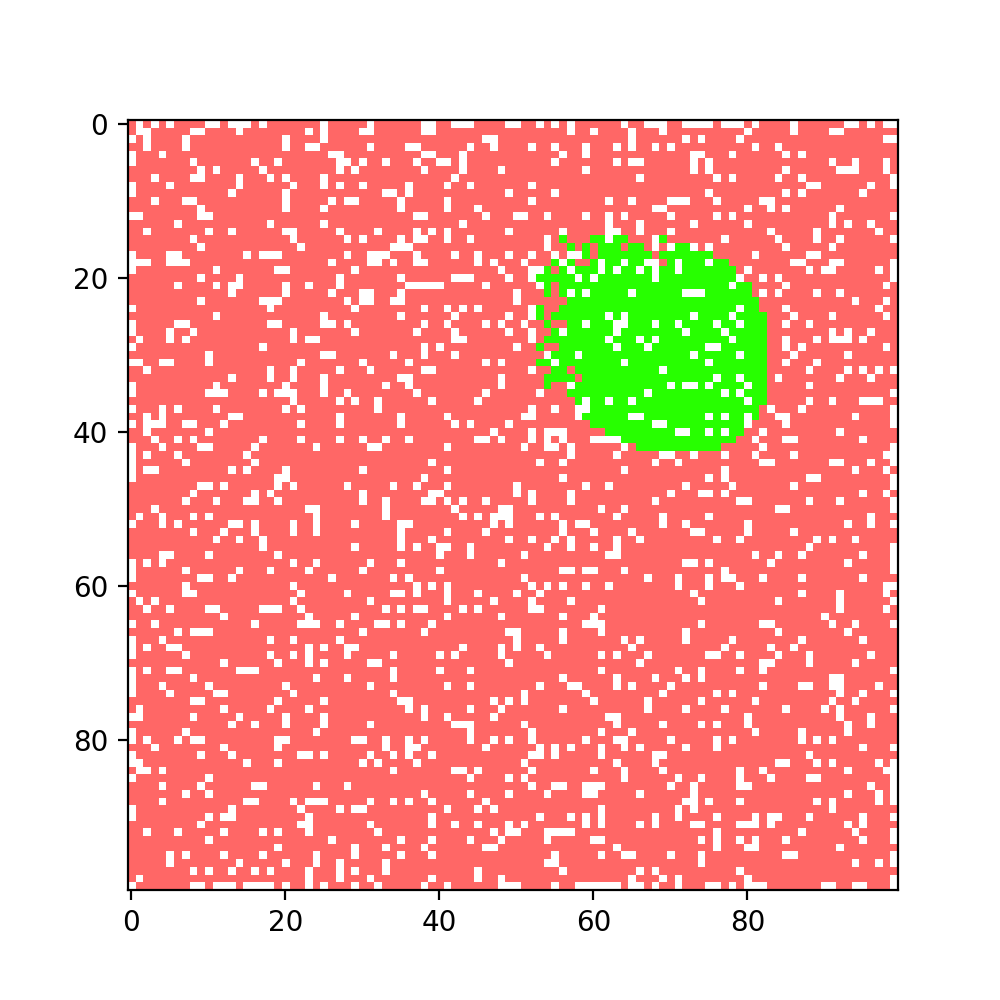
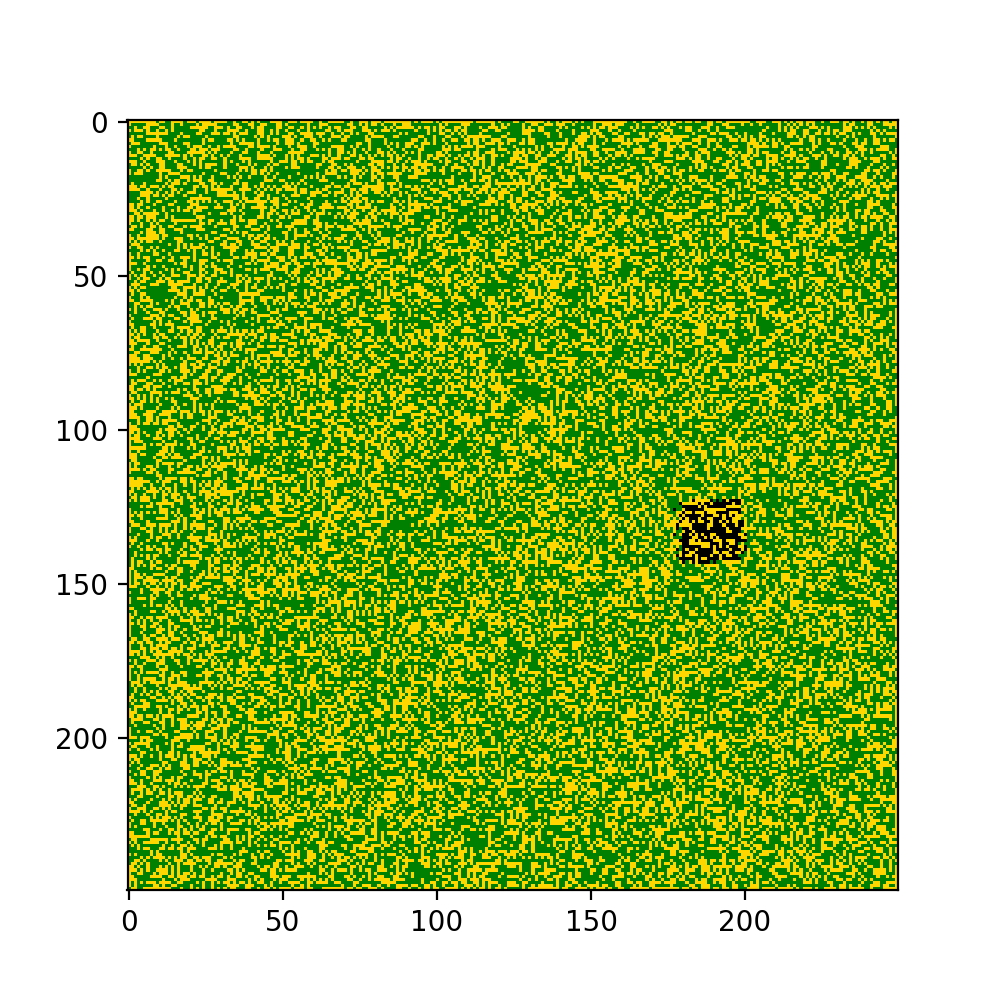
backup before fixing the m value stuff

diff --git a/prediction_script.py b/prediction_script.py
@@ -19,12 +19,21 @@ if False:
 delta = 10**-4
 d = 4
 k = 1
-eps = 0.25
-a_high = 0.013
-a_low  = 0.010
-map_size = 100
+eps = 0.19
+# For speed = 0.1
+a_high = 0.009
+a_low  = 0.001
+# For speed = 0.01
+a_high = 0.002096
+a_low = 0.000505
+
+# Estimated to need 52342 samples
+# Discarded 51960 samples.
+# Model reduced to using 382 samples.
+
+map_size = 250
 my_car = Car(map_size, save_change = False)
-my_car.stay_marked = True
+my_car.stay_marked = False
 
 full_run = True
 if full_run:
@@ -54,9 +63,9 @@ for i in range(sample_count):
         sample_array_min[round(model.x[i][0]), round(model.x[i][1])] = max(sample_array_min[round(model.x[i][0]), round(model.x[i][1])], 1 + int(model.f[i]))
 
 # Colours for potting
-two_colour = [0.156, 1,0,1]  
-one_colour = [1,0.01,0,0.6] 
-zero_colour = [1 ,1 , 1 ,1]  
+two_colour = my_car.car_colour  
+one_colour = my_car.ground_colour 
+zero_colour = "gold" 
 CM = mpl.colors.ListedColormap([zero_colour,one_colour,two_colour])
 plt.imshow(sample_array, cmap=CM, interpolation='none')
 plt.show(block=False)
@@ -75,9 +84,15 @@ elif status == OptimizationStatus.NO_SOLUTION_FOUND:
     print('no feasible solution found, lower bound is: {} '.format(model.objective_bound))
     plt.show(block=True)
 
+
+car_postion_m = my_car.car_position
+travel_dir_m = my_car.travel_dir
+
 fig4 = plt.figure(figsize=(5,5))
 my_car.reset_map()
 my_car.stay_marked = False # only show current position of target
+
+my_car.next_step() # t = m+1
 my_car.im = plt.imshow(my_car.map, cmap=my_car.CM, interpolation='none')
 y_min = min(abs(model.b[0].x), abs(model.b[2].x))
 x_min = min(abs(model.b[1].x), abs(model.b[3].x))
@@ -85,11 +100,22 @@ plt.gca().add_patch(Rectangle((x_min,y_min),model.width[1],model.width[0],
                     edgecolor='blue',
                     facecolor='none',
                     lw=1))
-car_postion_m = my_car.car_position
-travel_dir_m = my_car.travel_dir
+
+fig5 = plt.figure(figsize=(5,5))
+my_car.reset_map()
+my_car.stay_marked = False # only show current position of target
+
+my_car.next_step()
+my_car.im = plt.imshow(my_car.map, cmap=my_car.CM, interpolation='none')
+y_min = min(abs(model.b[0].x), abs(model.b[2].x))
+x_min = min(abs(model.b[1].x), abs(model.b[3].x))
+plt.gca().add_patch(Rectangle((x_min,y_min),model.width[1],model.width[0],
+                    edgecolor='blue',
+                    facecolor='none',
+                    lw=1))
 
 frame_count = 200
-anim = animation.FuncAnimation(fig4, my_car.updatefig, frames=frame_count, interval = 1)
+anim = animation.FuncAnimation(fig5, my_car.updatefig, frames=frame_count, interval = 1)
 anim.save('animation.mp4', fps=30, writer="ffmpeg", codec="libx264")
 plt.axis('off')
 

diff --git a/car.py b/car.py
@@ -6,13 +6,13 @@ from mip import Model, minimize, xsum, BINARY, CONTINUOUS
 import copy as cp
 class Car:
     # Parameters for propagation
-    travel_vel = 0.1
+    travel_vel = 0.01
     travel_dir = 0
 
 
     # Colours for potting
-    car_colour = [0.156,0.59,0,1]     # map == 1
-    ground_colour = [0.29,0.01,0,0.6]   # map == 0
+    car_colour = "k"    # map == 1
+    ground_colour = "green"   # map == 0
     CM = mpl.colors.ListedColormap([ground_colour,car_colour])
     save_change = False # save copies of the map change
 
@@ -130,7 +130,7 @@ class Car:
         b = {j: model.add_var(var_type=CONTINUOUS, lb = -M, ub = M, name="b_%d" % j) for j in range(Nf)}
         z = {(i,j): model.add_var(var_type=BINARY, name="z_%d,%d" % (i, j)) for i in range(m) for j in range(Nf)}
         s = {(i,j): model.add_var(var_type=CONTINUOUS, lb = 0, ub = M, name="s_%d,%d" % (i, j)) for i in range(m) for j in range(Nf)}
-        
+
         discarded = np.zeros_like(f)
         for i in range(m):
             if f[i]: # constraints for i in I1
@@ -151,7 +151,7 @@ class Car:
             model.add_constr(-b[j] - b[j + Nf_hf] == width[j])
             model.add_constr(width[j] >= 0)
         
-        model.objective = minimize(xsum(v[i] for i in range(m)) + 0.01 * xsum(width[j] for j in range(Nf_hf)))
+        model.objective = minimize(xsum(v[i] for i in range(m)) + 0.1 * xsum(width[j] for j in range(Nf_hf)))
 
         print("Discarded %d samples." % sum(discarded))
         model.x = x

diff --git a/estimated_expected_value.py b/estimated_expected_value.py
@@ -15,10 +15,10 @@ import time
 delta = 10**-4
 d = 4
 k = 1
-eps = 0.25
-a_high = 0.013
-a_low  = 0.010
-map_size = 100
+eps = 0.19
+a_high =  0.001336
+a_low  = 0.000529
+map_size = 250
 stay_marked = False
 
 alpha = np.outer(np.linspace(0.001, 1-0.001, 100), np.ones(100))
@@ -32,12 +32,12 @@ print("Starting with %d samples" % sample_count)
 print("minimum alpha: %f" % alpha[ind])
 print("minimum delta_ratio: %f" % delta_ratio[ind])
 
-rounds = 1000
+rounds = 100
 global_a_high = 0
 global_a_low = 1
 global_mu = np.zeros(rounds)
 for iter in range(rounds):
-    print("Starting round with %d" % iter)
+    print("Starting round %d" % iter)
     m = sample_count-2
     while sample_count > int(m+1):
         # Generate initial Map
